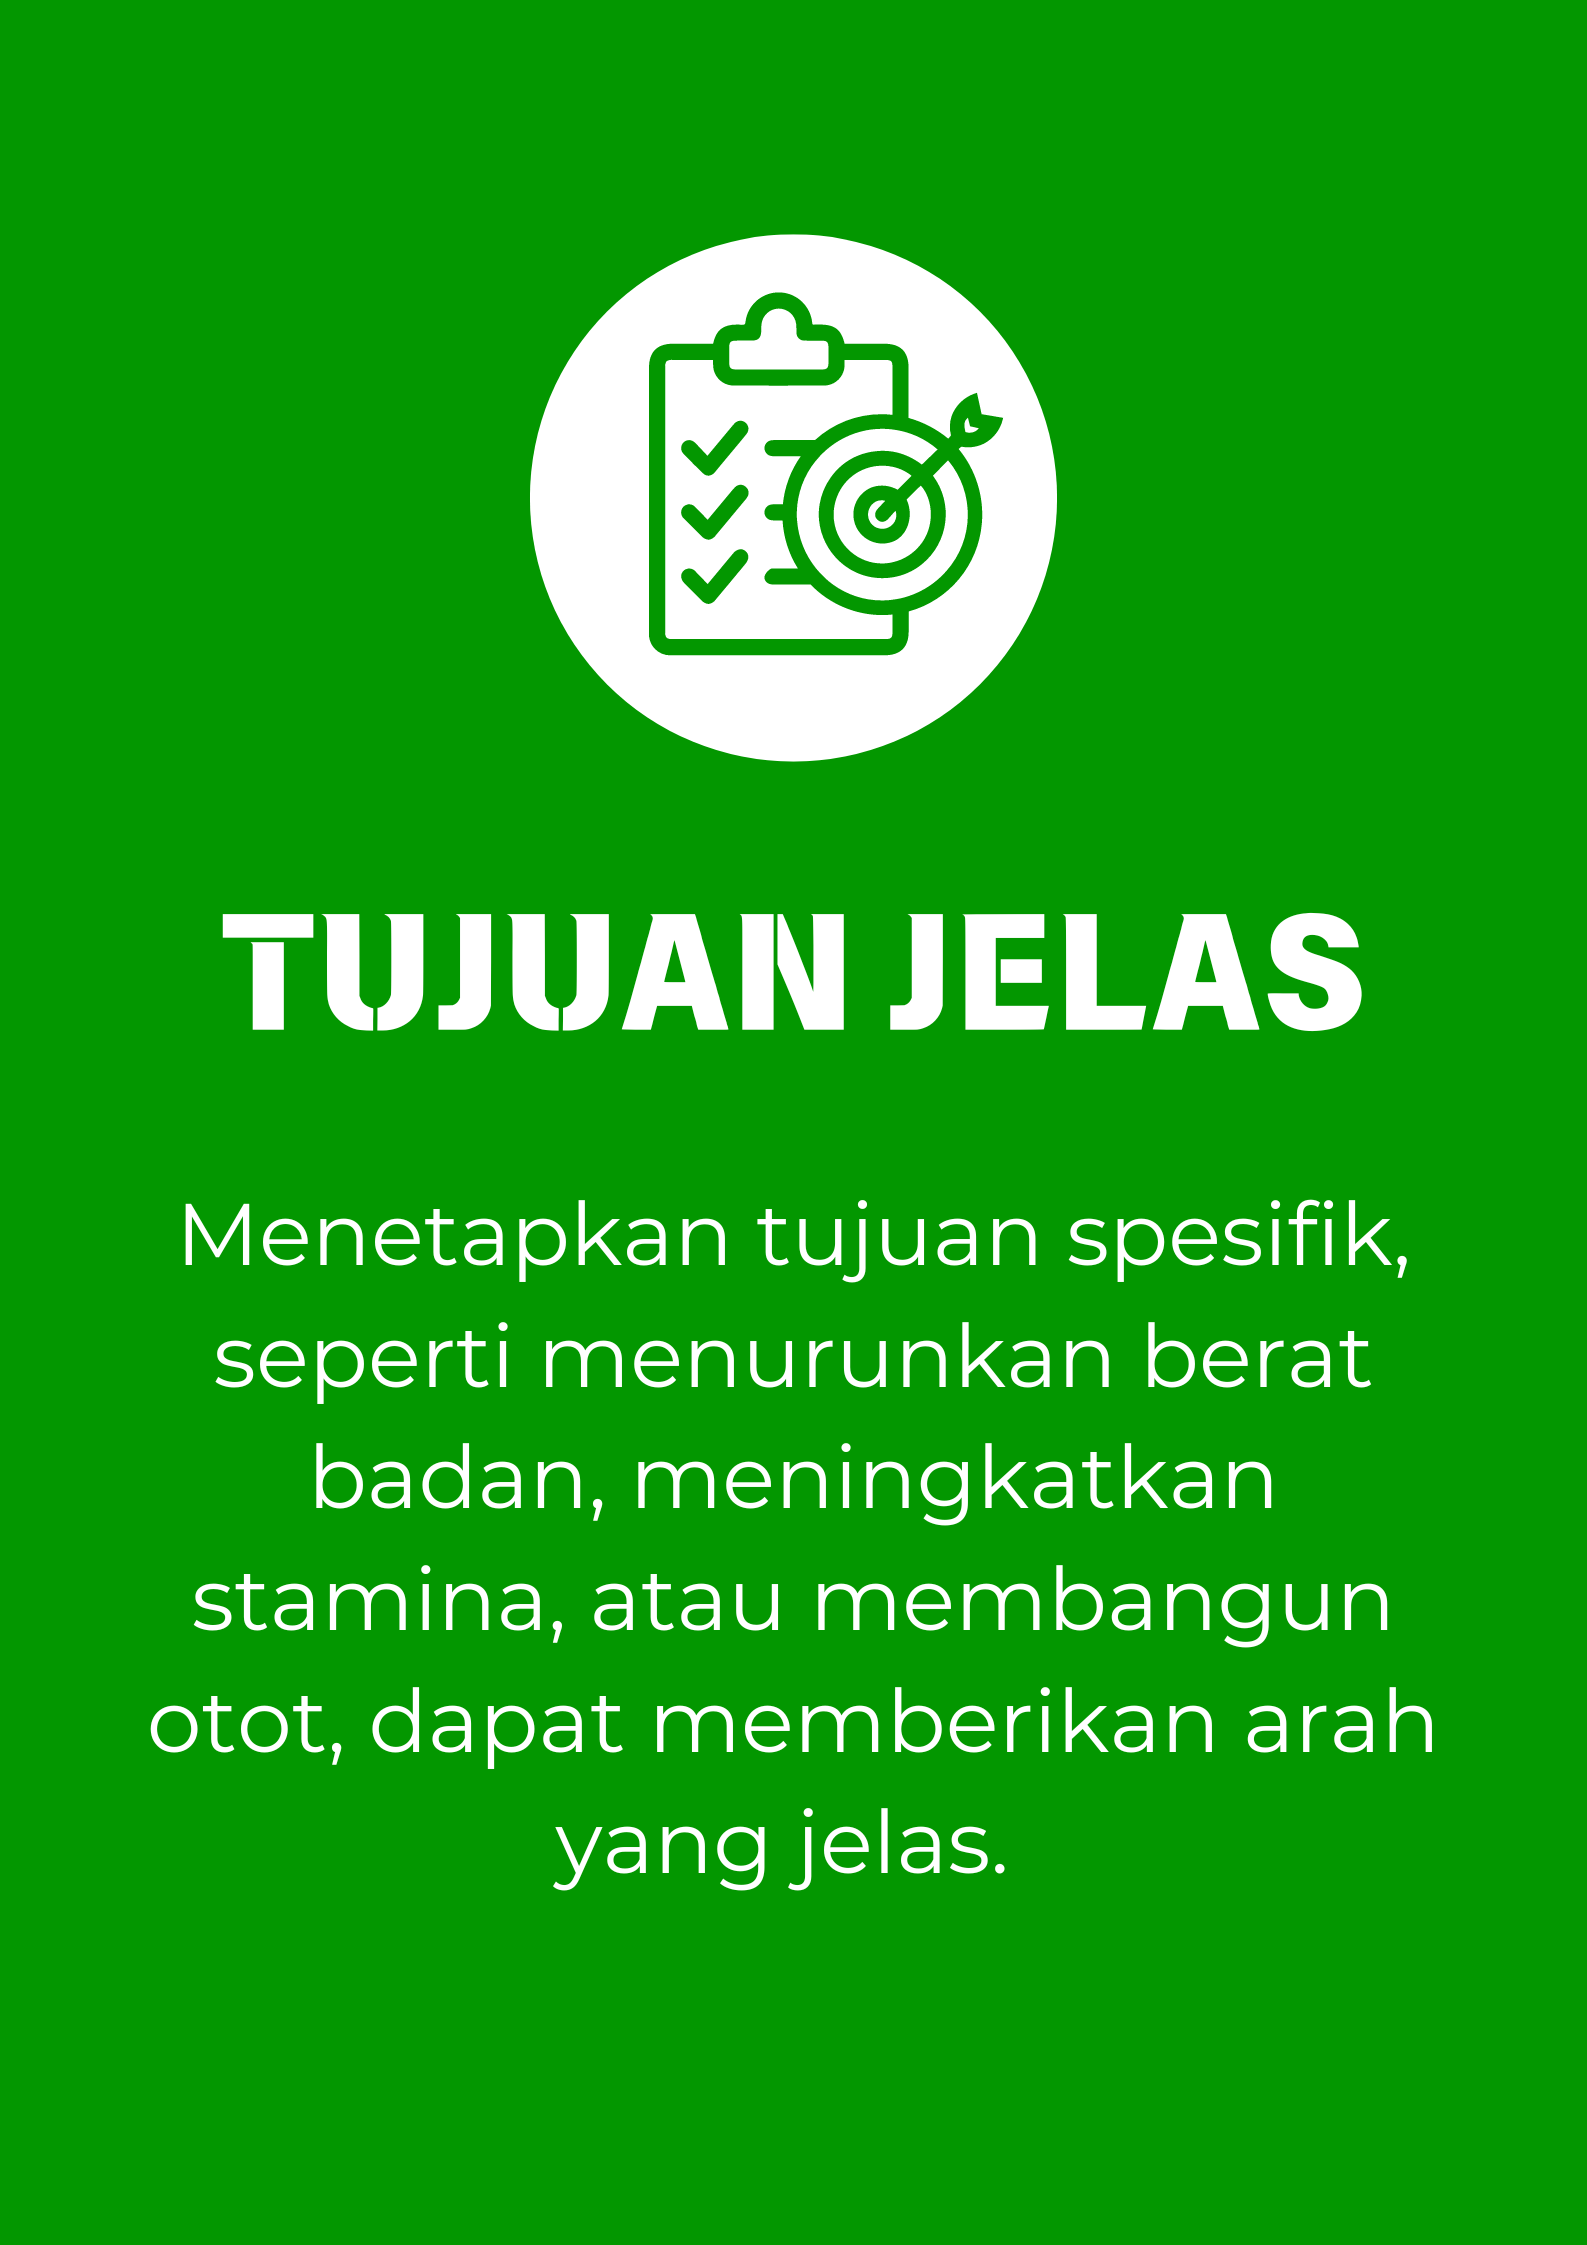
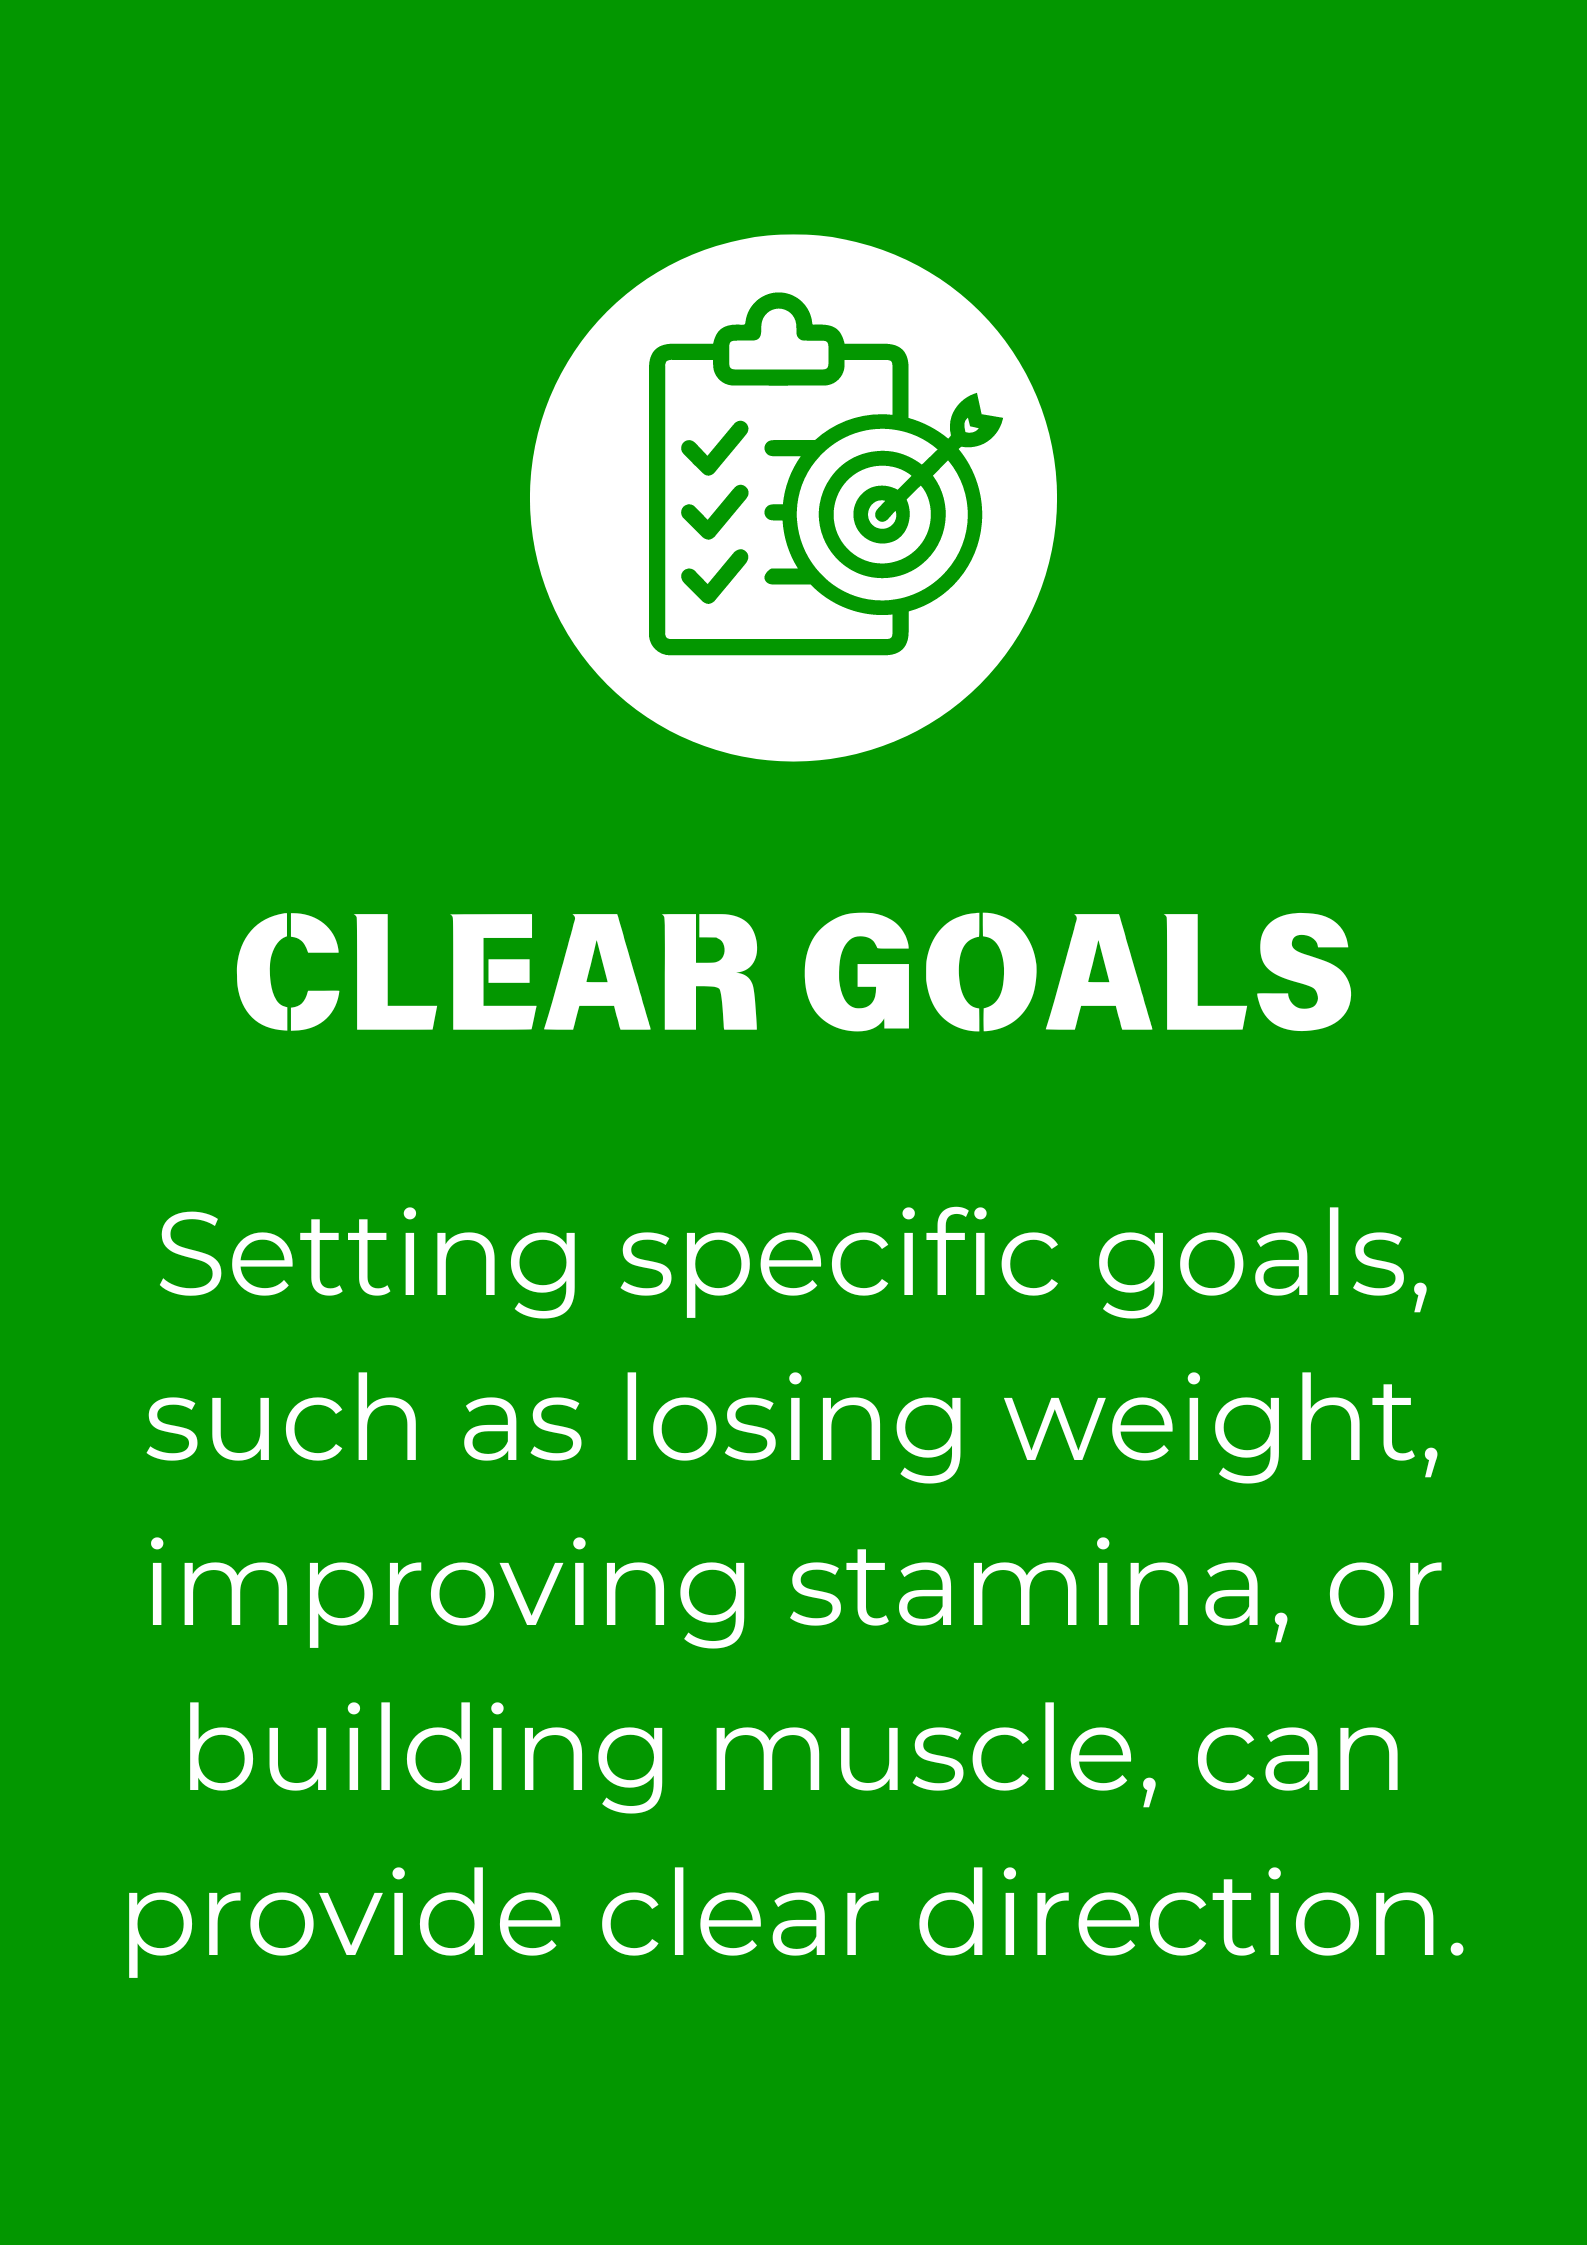
Change to English

Changed region(s): [[0.0618, 0.5301, 0.9263, 0.8731], [0.1235, 0.4053, 0.8645, 0.4677]]

diff --git a/pages/index.html b/pages/index.html
@@ -71,17 +71,17 @@
     <div class="content fade-in">
       <h1>Welcome to FitSteps!</h1>
       <p>
-        FitSteps lebih dari sekadar platform kebugaran—ini adalah pintu menuju
-        gaya hidup sehat dan aktif! Ayo, temukan tips, latihan, sepatu tren, dan
-        banyak lagi yang dirancang khusus untuk membantu Anda mengambil langkah
-        kecil menuju perubahan besar!
+        FitSteps is more than just a fitness platform—it's a gateway to a
+        healthy and active lifestyle! Come, discover tips, workouts, trendy
+        shoes, and much more designed specifically to help you take small steps
+        toward big changes!
       </p>
       <p>
-        Ingin menemukan latihan terbaik, memahami manfaat kesehatan, atau
-        mengikuti tren gaya hidup olahraga terkini?
+        Want to find the best workouts, understand health benefits, or follow
+        the latest sports lifestyle trends?
       </p>
       <br />
-      <h4>FitSteps punya semuanya untuk Anda!</h4>
+      <h4>FitSteps has everything for you!</h4>
     </div>
 
     <div class="images-container fade-in">
@@ -103,10 +103,10 @@
     </div>
 
     <div class="cta-section fade-in">
-      <h2>MULAI BERAKTIVITAS</h2>
+      <h2>GET STARTED</h2>
       <p>
-        Cari tahu apa saja manfaat berolahraga sekarang, mulai gaya hidup
-        sehatmu hari ini juga!
+        Discover the benefits of exercising now, and start your healthy
+        lifestyle today!
       </p>
       <a href="/pages/Health Benefits.html" class="cta-button"
         >HEALTH BENEFITS</a
